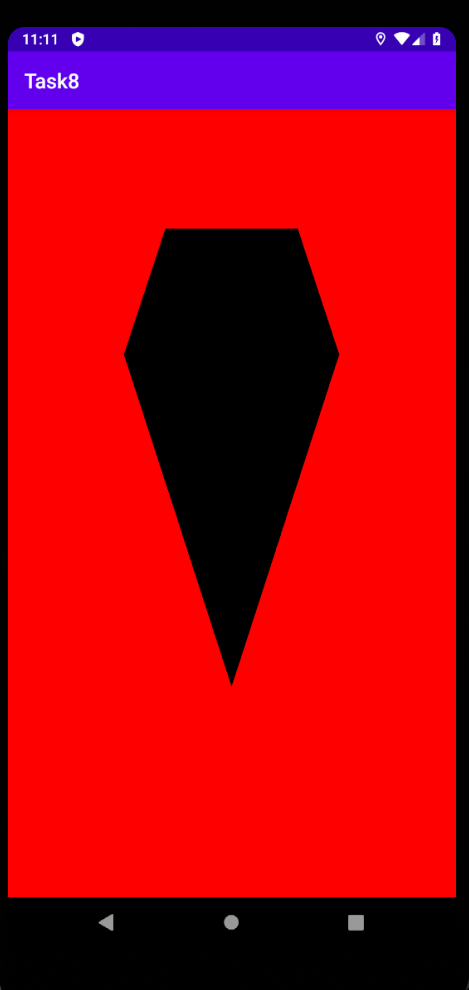
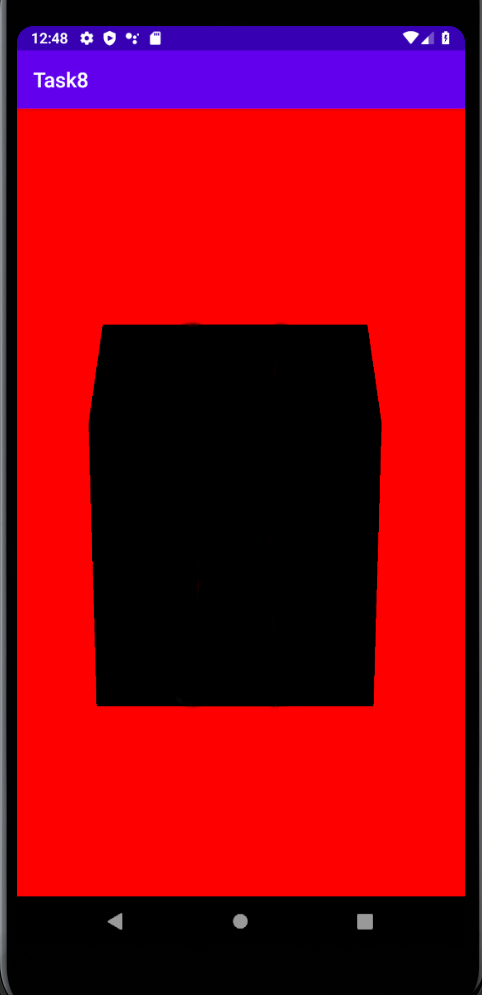
init

Changed region(s): [[0.1791, 0.2121, 0.806, 0.7273], [0.0, 0.0, 1.0, 1.0]]

diff --git a/Task8/app/src/main/java/com/yu/task8/Cube.java b/Task8/app/src/main/java/com/yu/task8/Cube.java
@@ -1,0 +1,159 @@
+package com.yu.task8;
+
+import android.opengl.GLES20;
+
+import java.nio.ByteBuffer;
+import java.nio.ByteOrder;
+import java.nio.FloatBuffer;
+
+/**
+ * Renders a 3D Cube using OpenGL ES 2.0.
+ *
+ * For more information on how to use OpenGL ES 2.0 on Android, see the
+ * <a href="//developer.android.com/training/graphics/opengl/index.html">
+ * Displaying Graphics with OpenGL ES</a> developer guide.
+ */
+public class Cube {
+
+    /** Cube vertices */
+    private static final float VERTICES[] = {
+            -0.5f, 0.5f, 0.5f,   // front top left 0
+            -0.5f, -0.5f, 0.5f,   // front bottom left 1
+            0.5f, -0.5f, 0.5f,   // front bottom right 2
+            0.5f, 0.5f, 0.5f,  // front top right 3
+
+            // top face
+            -0.5f, 0.5f, -0.5f,   // back top left 4
+            -0.5f, 0.5f, 0.5f,   // front top left 5
+            0.5f, 0.5f, 0.5f,  // front top right 6
+            0.5f, 0.5f, -0.5f,   // back top right 7
+    };
+
+    /** Vertex colors. */
+    private static final float COLORS[] = {
+            0.0f, 0.0f, 0.0f, 1.0f,
+            0.0f, 0.0f, 0.0f, 1.0f,
+            0.0f, 0.0f, 0.0f, 1.0f,
+            0.0f, 0.0f, 0.0f, 1.0f,
+
+            0.0f, 0.0f, 0.0f, 1.0f,
+            0.0f, 0.0f, 0.0f, 1.0f,
+            0.0f, 0.0f, 0.0f, 1.0f,
+            0.0f, 0.0f, 0.0f, 1.0f,
+    };
+
+
+    /** Order to draw vertices as triangles. */
+    private static final byte INDICES[] = {
+            0, 1, 2, 0, 2, 3,//front
+            4, 5, 6, 4, 6, 7, //Top
+    };
+
+    private static final int COORDS_PER_VERTEX = 3;
+
+    private static final int VALUES_PER_COLOR = 4;
+
+    /** Vertex size in bytes. */
+    private final int VERTEX_STRIDE = COORDS_PER_VERTEX * 4;
+
+    /** Color size in bytes. */
+    private final int COLOR_STRIDE = VALUES_PER_COLOR * 4;
+
+    /** Shader code for the vertex. */
+    private static final String VERTEX_SHADER_CODE =
+            "uniform mat4 uMVPMatrix;" +
+                    "attribute vec4 vPosition;" +
+                    "attribute vec4 vColor;" +
+                    "varying vec4 _vColor;" +
+                    "void main() {" +
+                    "  _vColor = vColor;" +
+                    "  gl_Position = uMVPMatrix * vPosition;" +
+                    "}";
+
+    /** Shader code for the fragment. */
+    private static final String FRAGMENT_SHADER_CODE =
+            "precision mediump float;" +
+                    "varying vec4 _vColor;" +
+                    "void main() {" +
+                    "  gl_FragColor = _vColor;" +
+                    "}";
+
+
+    private final FloatBuffer mVertexBuffer;
+    private final FloatBuffer mColorBuffer;
+    private final ByteBuffer mIndexBuffer;
+    private final int mProgram;
+    private final int mPositionHandle;
+    private final int mColorHandle;
+    private final int mMVPMatrixHandle;
+
+    public Cube() {
+        ByteBuffer byteBuffer = ByteBuffer.allocateDirect(VERTICES.length * 4);
+
+        byteBuffer.order(ByteOrder.nativeOrder());
+        mVertexBuffer = byteBuffer.asFloatBuffer();
+        mVertexBuffer.put(VERTICES);
+        mVertexBuffer.position(0);
+
+        byteBuffer = ByteBuffer.allocateDirect(COLORS.length * 4);
+        byteBuffer.order(ByteOrder.nativeOrder());
+        mColorBuffer = byteBuffer.asFloatBuffer();
+        mColorBuffer.put(COLORS);
+        mColorBuffer.position(0);
+
+        mIndexBuffer = ByteBuffer.allocateDirect(INDICES.length);
+        mIndexBuffer.put(INDICES);
+        mIndexBuffer.position(0);
+
+        mProgram = GLES20.glCreateProgram();
+        GLES20.glAttachShader(mProgram, loadShader(GLES20.GL_VERTEX_SHADER, VERTEX_SHADER_CODE));
+        GLES20.glAttachShader(
+                mProgram, loadShader(GLES20.GL_FRAGMENT_SHADER, FRAGMENT_SHADER_CODE));
+        GLES20.glLinkProgram(mProgram);
+
+        mPositionHandle = GLES20.glGetAttribLocation(mProgram, "vPosition");
+        mColorHandle = GLES20.glGetAttribLocation(mProgram, "vColor");
+        mMVPMatrixHandle = GLES20.glGetUniformLocation(mProgram, "uMVPMatrix");
+    }
+
+    /**
+     * Encapsulates the OpenGL ES instructions for drawing this shape.
+     *
+     * @param mvpMatrix The Model View Project matrix in which to draw this shape
+     */
+    public void draw(float[] mvpMatrix) {
+        // Add program to OpenGL environment.
+        GLES20.glUseProgram(mProgram);
+
+        // Prepare the cube coordinate data.
+        GLES20.glEnableVertexAttribArray(mPositionHandle);
+        GLES20.glVertexAttribPointer(
+                mPositionHandle, 3, GLES20.GL_FLOAT, false, VERTEX_STRIDE, mVertexBuffer);
+
+        // Prepare the cube color data.
+        GLES20.glEnableVertexAttribArray(mColorHandle);
+        GLES20.glVertexAttribPointer(
+                mColorHandle, 4, GLES20.GL_FLOAT, false, COLOR_STRIDE, mColorBuffer);
+
+        // Apply the projection and view transformation.
+        GLES20.glUniformMatrix4fv(mMVPMatrixHandle, 1, false, mvpMatrix, 0);
+
+        // Draw the cube.
+        GLES20.glDrawElements(
+                GLES20.GL_TRIANGLES, INDICES.length, GLES20.GL_UNSIGNED_BYTE, mIndexBuffer);
+
+        // Disable vertex arrays.
+        GLES20.glDisableVertexAttribArray(mPositionHandle);
+        GLES20.glDisableVertexAttribArray(mColorHandle);
+    }
+
+    /** Loads the provided shader in the program. */
+    private static int loadShader(int type, String shaderCode){
+        int shader = GLES20.glCreateShader(type);
+
+        GLES20.glShaderSource(shader, shaderCode);
+        GLES20.glCompileShader(shader);
+
+        return shader;
+    }
+}

diff --git a/Task8/app/src/main/java/com/yu/task8/OpenGLRendererCube.java b/Task8/app/src/main/java/com/yu/task8/OpenGLRendererCube.java
@@ -7,8 +7,8 @@ import android.opengl.Matrix;
 import javax.microedition.khronos.egl.EGLConfig;
 import javax.microedition.khronos.opengles.GL10;
 
-public class OpenGLRendererPyr implements GLSurfaceView.Renderer {
-    private Pyramid pyramid;
+public class OpenGLRendererCube implements GLSurfaceView.Renderer {
+    private Cube cube;
 
     private final float[] mMVPMatrix = new float[16];
     private final float[] mProjectionMatrix = new float[16];
@@ -27,7 +27,7 @@ public class OpenGLRendererPyr implements GLSurfaceView.Renderer {
     @Override
     public void onSurfaceCreated(GL10 gl10, EGLConfig eglConfig) {
         GLES20.glClearColor(1f,0f,0f,1f);
-        pyramid = new Pyramid();
+        cube = new Cube();
     }
 
     @Override
@@ -55,7 +55,7 @@ public class OpenGLRendererPyr implements GLSurfaceView.Renderer {
     @Override
     public void onDrawFrame(GL10 gl10) {
         GLES20.glClear(GLES20.GL_COLOR_BUFFER_BIT|GLES20.GL_DEPTH_BUFFER_BIT);
-        pyramid.draw(mMVPMatrix);
+        cube.draw(mMVPMatrix);
 
     }
 }

diff --git a/Task8/app/src/main/java/com/yu/task8/NonFlatFiguresActivity.java b/Task8/app/src/main/java/com/yu/task8/NonFlatFiguresActivity.java
@@ -13,7 +13,7 @@ public class NonFlatFiguresActivity extends AppCompatActivity {
 
         final GLSurfaceView glSurfaceView = new GLSurfaceView(this);
         glSurfaceView.setEGLContextClientVersion(2);
-        OpenGLRendererPyr renderer = new OpenGLRendererPyr();
+        OpenGLRendererCube renderer = new OpenGLRendererCube();
         glSurfaceView.setRenderer(renderer);
         setContentView(glSurfaceView);
     }
